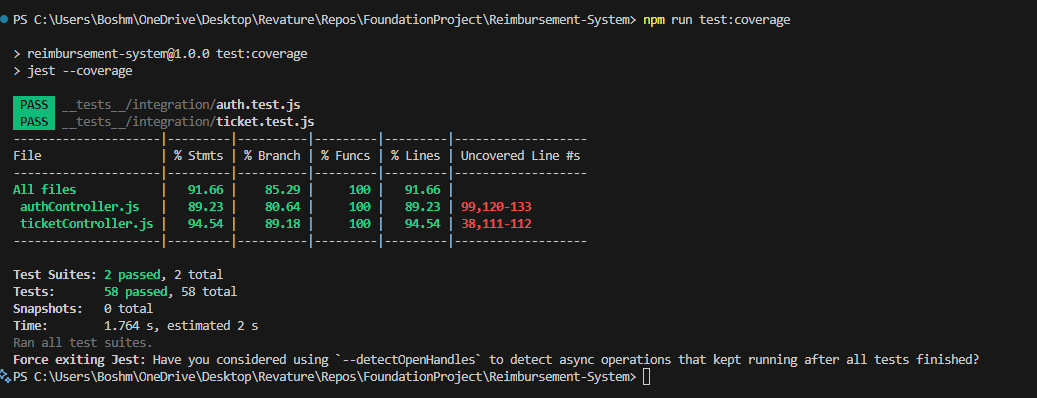
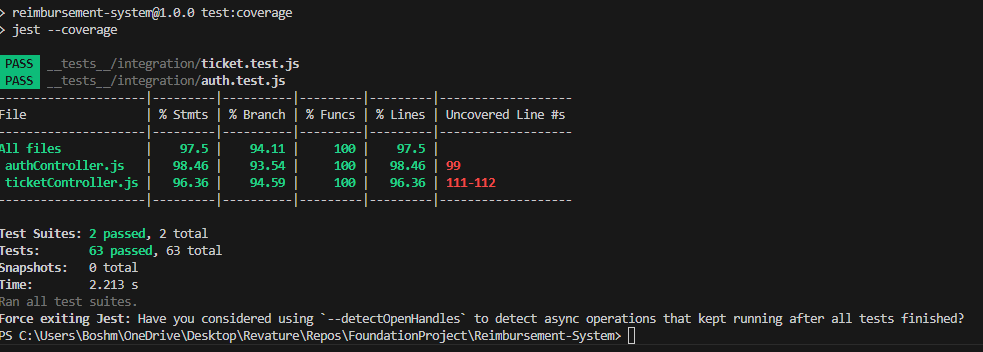
improve test coverage

diff --git a/__tests__/integration/ticket.test.js b/__tests__/integration/ticket.test.js
@@ -5,11 +5,14 @@ const { TICKET_STATUS, USER_ROLES, REIMBURSEMENT_TYPES } = require('../../src/ut
 
 jest.mock('../../src/repositories/ticketRepository');
 jest.mock('../../src/repositories/userRepository');
+jest.mock('../../src/services/fileUploadService');
 
 const ticketRepository = require('../../src/repositories/ticketRepository');
 const userRepository = require('../../src/repositories/userRepository');
+const fileUploadService = require('../../src/services/fileUploadService');
 const User = require('../../src/models/User');
 const Ticket = require('../../src/models/Ticket');
+const ticketController = require('../../src/controllers/ticketController');
 
 describe('Ticket API', () => {
   let employeeToken, managerToken;
@@ -127,6 +130,9 @@ describe('Ticket API', () => {
         })
       )
     );
+    
+    fileUploadService.uploadReceipt = jest.fn().mockResolvedValue('receipts/test-receipt.jpg');
+    fileUploadService.getSignedUrl = jest.fn().mockResolvedValue('https://example.com/receipts/test-receipt.jpg');
   });
 
   afterEach(() => {
@@ -226,6 +232,33 @@ describe('Ticket API', () => {
       expect(res.statusCode).toBe(500);
       expect(res.body.message).toBe('Some unexpected server error');
     });
+    
+    test('should handle file upload errors in createTicket', async () => {
+      fileUploadService.uploadReceipt.mockRejectedValueOnce(new Error('Upload failed'));
+      
+      app.use('/api/tickets-file-upload-test', (req, res, next) => {
+        req.user = { id: '1' };
+        req.file = {
+          originalname: 'receipt.jpg',
+          buffer: Buffer.from('test content'),
+          mimetype: 'image/jpeg'
+        };
+        next();
+      });
+      
+      app.post('/api/tickets-file-upload-test', ticketController.createTicket);
+      
+      const response = await request(app)
+        .post('/api/tickets-file-upload-test')
+        .send({
+          amount: 100,
+          description: 'Test ticket with file upload',
+          reimbursementType: REIMBURSEMENT_TYPES.TRAVEL
+        });
+      
+      expect(response.statusCode).toBe(500);
+      expect(response.body.message).toBe('Upload failed');
+    });
   });
 
   describe('GET /api/tickets/users/:userId/tickets', () => {
@@ -270,6 +303,14 @@ describe('Ticket API', () => {
         .get('/api/tickets/users/1/tickets');
 
       expect(res.statusCode).toBe(401);
+    });
+    test('should deny access when employee tries to view another user\'s tickets', async () => {
+      const response = await request(app)
+        .get('/api/tickets/users/2/tickets')
+        .set('x-auth-token', employeeToken);
+        
+      expect(response.statusCode).toBe(403);
+      expect(response.body.message).toBe('Access denied. You can only view your own tickets.');
     });
   });
 
@@ -475,6 +516,37 @@ describe('Ticket API', () => {
 
       expect(res.statusCode).toBe(500);
       expect(res.body.message).toBe('Server error');
+    });
+    
+    test('should correctly handle different error types in processTicket', async () => {
+      const errorCases = [
+        { error: 'Ticket not found', expectedStatus: 400 },
+        { error: 'Invalid ticket status', expectedStatus: 400 }, 
+        { error: 'Ticket has already been processed', expectedStatus: 400 },
+        { error: 'Managers cannot process their own tickets', expectedStatus: 400 },
+        { error: 'Not authorized to process tickets', expectedStatus: 403 },
+        { error: 'Some other error', expectedStatus: 500 }
+      ];
+      
+      for (const { error, expectedStatus } of errorCases) {
+        jest.clearAllMocks();
+        
+        userRepository.findById = jest.fn().mockImplementation(id => {
+          if (id === '1') return Promise.resolve(employeeUser);
+          if (id === '2') return Promise.resolve(managerUser);
+          return Promise.resolve(null);
+        });
+        
+        ticketRepository.processTicket = jest.fn().mockRejectedValueOnce(new Error(error));
+        
+        const response = await request(app)
+          .patch('/api/tickets/users/1/tickets/1/status')
+          .set('x-auth-token', managerToken)
+          .send({ status: TICKET_STATUS.APPROVED });
+        
+        expect(response.statusCode).toBe(expectedStatus);
+        expect(response.body.message).toBe(expectedStatus === 500 ? 'Server error' : error);
+      }
     });
   });
 

diff --git a/__tests__/integration/auth.test.js b/__tests__/integration/auth.test.js
@@ -3,6 +3,7 @@ const app = require('../../src/app');
 const authService = require('../../src/services/authService');
 const fileUploadService = require('../../src/services/fileUploadService');
 const jwt = require('jsonwebtoken');
+const authController = require('../../src/controllers/authController');
 
 jest.mock('../../src/services/authService');
 jest.mock('../../src/services/fileUploadService');
@@ -499,6 +500,78 @@ describe('Auth Routes', () => {
 
       expect(response.status).toBe(500);
       expect(response.body).toHaveProperty('message', 'Upload failed');
+    });
+    
+    test('should fully test the updateProfilePicture function path', async () => {
+      app.use('/api/auth/profile-picture-full-test', (req, res, next) => {
+        req.user = { id: '123' };
+        req.file = {
+          originalname: 'test.jpg',
+          buffer: Buffer.from('test content'),
+          mimetype: 'image/jpeg'
+        };
+        next();
+      });
+      
+      app.patch('/api/auth/profile-picture-full-test', authController.updateProfilePicture);
+      
+      fileUploadService.uploadProfilePicture.mockResolvedValue('profiles/test-profile.jpg');
+      authService.updateProfilePicture.mockResolvedValue({
+        id: '123',
+        username: 'testuser',
+        profilePictureKey: 'profiles/test-profile.jpg'
+      });
+      fileUploadService.getSignedUrl.mockResolvedValue('https://example.com/profiles/test-profile.jpg');
+      
+      let response = await request(app)
+        .patch('/api/auth/profile-picture-full-test');
+        
+      expect(response.status).toBe(200);
+      expect(response.body).toHaveProperty('message', 'Profile picture updated successfully');
+      expect(response.body).toHaveProperty('profilePictureUrl', 'https://example.com/profiles/test-profile.jpg');
+      
+      fileUploadService.uploadProfilePicture.mockRejectedValueOnce(new Error('Upload service error'));
+      
+      response = await request(app)
+        .patch('/api/auth/profile-picture-full-test');
+        
+      expect(response.status).toBe(500);
+      expect(response.body).toHaveProperty('message', 'Upload service error');
+      
+      fileUploadService.uploadProfilePicture.mockResolvedValue('profiles/test-profile.jpg');
+      authService.updateProfilePicture.mockRejectedValueOnce(new Error('User update error'));
+      
+      response = await request(app)
+        .patch('/api/auth/profile-picture-full-test');
+        
+      expect(response.status).toBe(500);
+      expect(response.body).toHaveProperty('message', 'User update error');
+      
+      authService.updateProfilePicture.mockResolvedValue({
+        id: '123',
+        username: 'testuser',
+        profilePictureKey: 'profiles/test-profile.jpg'
+      });
+      fileUploadService.getSignedUrl.mockRejectedValueOnce(new Error('URL generation error'));
+      
+      response = await request(app)
+        .patch('/api/auth/profile-picture-full-test');
+        
+      expect(response.status).toBe(500);
+      expect(response.body).toHaveProperty('message', 'URL generation error');
+    });
+    
+    test('should handle errors in getProfile function', async () => {
+      jwt.verify.mockReturnValue({ user: { id: '123' } });
+      
+      authService.getUserById.mockRejectedValueOnce(new Error('User fetch error'));
+      
+      const response = await request(app)
+        .get('/api/auth/profile')
+        .set('x-auth-token', 'valid-token');
+        
+      expect(response.status).toBe(500);
+      expect(response.body).toHaveProperty('message', 'Server error');
     });
   });
 });
